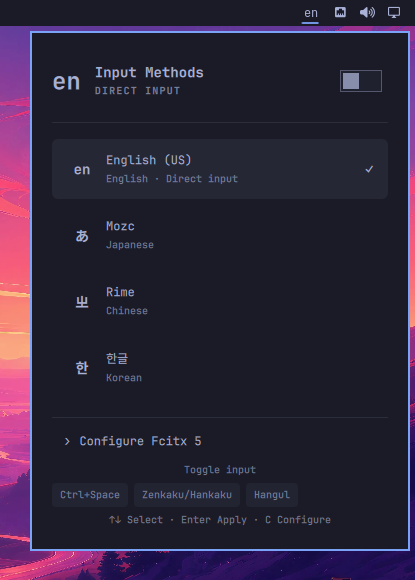
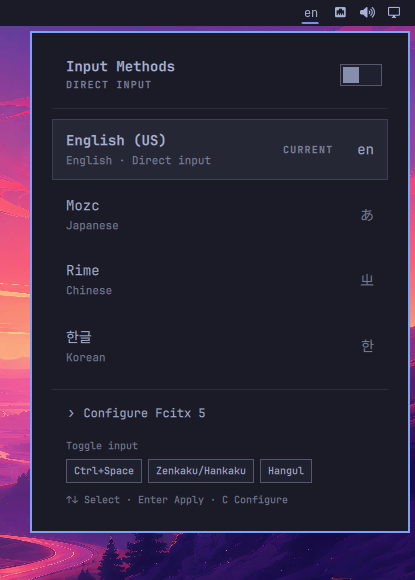
Polish input method panel hierarchy and release 0.1.8

diff --git a/InputMethodPanel.qml b/InputMethodPanel.qml
@@ -23,8 +23,13 @@ Panel {
   readonly property bool actionBusy: hostWidget ? hostWidget.actionBusy : false
   readonly property var shortcuts: hostWidget ? hostWidget.status.triggerKeys : []
   readonly property color foreground: bar ? bar.foreground : Color.foreground
+  readonly property color accent: Color.accent
   readonly property color dim: Qt.rgba(foreground.r, foreground.g, foreground.b, 0.65)
   readonly property string fontFamily: bar ? bar.fontFamily : Style.font.family
+  // One left edge for everything. PanelHero indents its labels by this much
+  // past the (empty) icon slot, so method names, the configure button, and
+  // the footer all sit on the same vertical line as the title.
+  readonly property int inset: Style.space(14)
   property int cursorIndex: 0
 
   function open() {
@@ -84,10 +89,13 @@ Panel {
         Column {
           id: content
           width: parent.width
-          spacing: Style.space(6)
+          spacing: 0
 
           Item { width: 1; height: Style.space(4) }
 
+          // No icon in the hero: the bar already shows the current label and
+          // every row carries its own, so a display-size glyph up here only
+          // repeated what sits directly beneath it.
           PanelHero {
             id: hero
             width: parent.width
@@ -95,16 +103,6 @@ Panel {
             meta: root.inputActive ? "Input method enabled" : "Direct input"
             foreground: root.foreground
             fontFamily: root.fontFamily
-            iconComponent: Component {
-              Text {
-                text: root.hostWidget ? root.hostWidget.displayLabel : "?"
-                textFormat: Text.PlainText
-                color: root.foreground
-                font.family: root.fontFamily
-                font.pixelSize: Style.font.display
-                font.bold: true
-              }
-            }
             trailingControl: Component {
               ToggleSwitch {
                 id: powerSwitch
@@ -122,112 +120,135 @@ Panel {
             }
           }
 
-          Item { width: 1; height: Style.space(12) }
+          Item { width: 1; height: Style.space(16) }
+
+          PanelSeparator {
+            width: parent.width
+            foreground: root.foreground
+          }
+
+          Item { width: 1; height: Style.space(10) }
 
           Text {
             visible: root.methods.length === 0
             width: parent.width
+            leftPadding: root.inset
+            rightPadding: root.inset
             text: "No configured input methods found"
             textFormat: Text.PlainText
             color: root.dim
             font.family: root.fontFamily
             font.pixelSize: Style.font.body
+            wrapMode: Text.Wrap
           }
 
-          PanelSeparator {
-            visible: root.methods.length > 0
+          Column {
+            id: methodList
             width: parent.width
-            foreground: root.foreground
-          }
+            spacing: Style.space(4)
 
-          Item { width: 1; height: Style.space(4) }
+            Repeater {
+              model: root.methods
 
-          Repeater {
-            model: root.methods
+              // Rows paint with the kit's state tokens so the two highlights
+              // read differently: the keyboard/mouse cursor gets the
+              // hover-cursor fill and border, while the current method keeps
+              // the selected fill, a bold selected-color name, and a caption.
+              BorderSurface {
+                id: methodRow
+                required property var modelData
+                required property int index
+                readonly property bool hasCursor: root.cursorIndex === index
+                readonly property bool current: String(modelData.id) === root.currentId
+                width: methodList.width
+                height: Math.max(Style.space(56), methodContent.implicitHeight + Style.space(24))
+                radius: Style.cornerRadius
+                color: methodArea.pressed ? Style.pressedFillFor(root.foreground, root.accent)
+                  : hasCursor ? Style.hoverFillFor(root.foreground, root.accent)
+                  : current ? Style.selectedFillFor(root.foreground, root.accent)
+                  : "transparent"
+                borderSpec: hasCursor ? Border.controlSpec("hover-cursor", root.foreground, root.accent)
+                  : (current && Border.controlHasWidth("selected")) ? Border.controlSpec("selected", root.foreground, root.accent)
+                  : Border.none()
 
-            Rectangle {
-              id: methodRow
-              required property var modelData
-              required property int index
-              width: content.width
-              height: Math.max(Style.space(60), methodContent.implicitHeight + Style.space(24))
-              radius: Style.space(6)
-              readonly property bool hasCursor: root.cursorIndex === index
-              readonly property bool current: String(modelData.id) === root.currentId
-              color: methodArea.containsMouse
-                ? Qt.rgba(root.foreground.r, root.foreground.g, root.foreground.b, 0.15)
-                : (hasCursor || current
-                    ? Qt.rgba(root.foreground.r, root.foreground.g, root.foreground.b, 0.08)
-                    : "transparent")
-
-              MouseArea {
-                id: methodArea
-                anchors.fill: parent
-                hoverEnabled: true
-                cursorShape: Qt.PointingHandCursor
-                onEntered: root.cursorIndex = methodRow.index
-                onClicked: root.select(methodRow.index)
-              }
-
-              RowLayout {
-                anchors.fill: parent
-                anchors.leftMargin: Style.space(14)
-                anchors.rightMargin: Style.space(14)
-                spacing: Style.spacing.controlGap
-
-                Text {
-                  text: Model.displayLabel(methodRow.modelData)
-                  textFormat: Text.PlainText
-                  color: root.foreground
-                  font.family: root.fontFamily
-                  font.pixelSize: Style.font.title
-                  font.bold: true
-                  Layout.preferredWidth: Style.space(32)
-                  horizontalAlignment: Text.AlignHCenter
+                MouseArea {
+                  id: methodArea
+                  anchors.fill: parent
+                  hoverEnabled: true
+                  cursorShape: Qt.PointingHandCursor
+                  onEntered: root.cursorIndex = methodRow.index
+                  onClicked: root.select(methodRow.index)
                 }
 
-                ColumnLayout {
-                  id: methodContent
-                  Layout.fillWidth: true
-                  spacing: Style.space(4)
-                  Text {
+                RowLayout {
+                  anchors.fill: parent
+                  anchors.leftMargin: root.inset
+                  anchors.rightMargin: root.inset
+                  spacing: Style.spacing.controlGap
+
+                  ColumnLayout {
+                    id: methodContent
                     Layout.fillWidth: true
-                    text: Model.displayName(methodRow.modelData)
-                    textFormat: Text.PlainText
-                    color: root.foreground
-                    font.family: root.fontFamily
-                    font.pixelSize: Style.font.body
-                    elide: Text.ElideRight
+                    spacing: Style.space(3)
+
+                    Text {
+                      Layout.fillWidth: true
+                      text: Model.displayName(methodRow.modelData)
+                      textFormat: Text.PlainText
+                      color: methodRow.current ? Style.selectedStateColor(root.foreground, root.accent) : root.foreground
+                      font.family: root.fontFamily
+                      font.pixelSize: Style.font.title
+                      font.bold: methodRow.current
+                      elide: Text.ElideRight
+                    }
+
+                    Text {
+                      Layout.fillWidth: true
+                      visible: text !== ""
+                      text: Model.methodDescription(methodRow.modelData)
+                      textFormat: Text.PlainText
+                      color: root.dim
+                      font.family: root.fontFamily
+                      font.pixelSize: Style.font.bodySmall
+                      elide: Text.ElideRight
+                    }
                   }
+
                   Text {
-                    Layout.fillWidth: true
-                    text: Model.methodDescription(methodRow.modelData)
+                    visible: methodRow.current
+                    text: "Current"
                     textFormat: Text.PlainText
                     color: root.dim
                     font.family: root.fontFamily
                     font.pixelSize: Style.font.caption
+                    font.bold: true
+                    font.letterSpacing: 1.2
+                    font.capitalization: Font.AllUppercase
+                  }
+
+                  Text {
+                    Layout.preferredWidth: Style.space(32)
+                    text: Model.displayLabel(methodRow.modelData)
+                    textFormat: Text.PlainText
+                    color: methodRow.current ? root.foreground : root.dim
+                    font.family: root.fontFamily
+                    font.pixelSize: Style.font.title
+                    horizontalAlignment: Text.AlignRight
                     elide: Text.ElideRight
                   }
-                }
-
-                Text {
-                  visible: methodRow.current
-                  text: "✓"
-                  textFormat: Text.PlainText
-                  color: root.foreground
-                  font.family: root.fontFamily
-                  font.pixelSize: Style.font.title
                 }
               }
             }
           }
 
-          Item { width: 1; height: Style.space(8) }
+          Item { width: 1; height: Style.space(12) }
 
           PanelSeparator {
             width: parent.width
             foreground: root.foreground
           }
+
+          Item { width: 1; height: Style.space(6) }
 
           Button {
             width: parent.width
@@ -237,55 +258,76 @@ Panel {
             fontFamily: root.fontFamily
             bordered: false
             leftAlign: true
+            horizontalPadding: root.inset
             onClicked: { root.hostWidget.configure(); root.close() }
           }
 
+          Item { width: 1; height: Style.space(10) }
+
           Text {
+            id: shortcutLabel
             visible: root.shortcuts.length > 0
             width: parent.width
+            leftPadding: root.inset
             text: "Toggle input"
             textFormat: Text.PlainText
             color: root.dim
             font.family: root.fontFamily
             font.pixelSize: Style.font.caption
-            horizontalAlignment: Text.AlignHCenter
           }
 
+          Item { width: 1; height: root.shortcuts.length > 0 ? Style.space(6) : 0 }
+
           Flow {
+            id: shortcutRow
+            visible: root.shortcuts.length > 0
             width: parent.width
+            leftPadding: root.inset
+            rightPadding: root.inset
             spacing: Style.space(6)
+            readonly property int chipHeight: shortcutLabel.implicitHeight + Style.space(10)
+            readonly property int chipMaxWidth: width - leftPadding - rightPadding
+
             Repeater {
               model: root.shortcuts
-              Rectangle {
+
+              BorderSurface {
                 id: shortcutBadge
                 required property string modelData
-                width: Math.min(shortcutText.implicitWidth + Style.space(16), content.width)
-                height: shortcutText.implicitHeight + Style.space(10)
-                radius: Style.space(4)
-                color: Qt.rgba(root.foreground.r, root.foreground.g, root.foreground.b, 0.06)
+                width: Math.min(shortcutText.implicitWidth + Style.space(16), shortcutRow.chipMaxWidth)
+                height: Math.max(shortcutRow.chipHeight, shortcutText.implicitHeight + Style.space(10))
+                radius: Style.cornerRadius
+                color: Style.normalFillFor(root.foreground, root.accent)
+                borderSpec: Border.controlSpec("normal", root.foreground, root.accent)
+
                 Text {
                   id: shortcutText
                   anchors.centerIn: parent
-                  width: Math.min(implicitWidth, content.width - Style.space(16))
+                  width: Math.min(implicitWidth, shortcutRow.chipMaxWidth - Style.space(16))
                   text: shortcutBadge.modelData
                   textFormat: Text.PlainText
-                  color: root.dim
+                  color: root.foreground
                   font.family: root.fontFamily
                   font.pixelSize: Style.font.caption
                   wrapMode: Text.Wrap
+                  horizontalAlignment: Text.AlignHCenter
                 }
               }
             }
           }
 
+          Item { width: 1; height: Style.space(10) }
+
           Text {
             width: parent.width
+            leftPadding: root.inset
+            rightPadding: root.inset
             text: "↑↓ Select · Enter Apply · C Configure"
             textFormat: Text.PlainText
             color: root.dim
             font.family: root.fontFamily
             font.pixelSize: Style.font.caption
-            horizontalAlignment: Text.AlignHCenter
+            elide: Text.ElideRight
           }
 
           Item { width: 1; height: Style.space(4) }

diff --git a/test/panel-layout-test.js b/test/panel-layout-test.js
@@ -3,10 +3,15 @@ const fs = require("node:fs");
 
 const panel = fs.readFileSync(`${__dirname}/../InputMethodPanel.qml`, "utf8");
 
+// Current input and the cursor must not share a single highlight condition.
+assert.doesNotMatch(panel, /hasCursor\s*\|\|\s*current/);
+
 assert.match(panel, /text: "↑↓ Select · Enter Apply · C Configure"/);
 assert.doesNotMatch(panel, /Right-click bar to toggle/);
 assert.match(panel, /text: Model\.methodDescription\(methodRow\.modelData\)/);
 assert.doesNotMatch(panel, /text: String\(methodRow\.modelData\.id\)/);
+assert.match(panel, /text: "Current"/);
+assert.doesNotMatch(panel, /text: "✓"/);
 assert.doesNotMatch(panel, /CursorSurface/);
 assert.match(panel, /trailingControl: Component/);
 assert.match(panel, /ToggleSwitch/);
